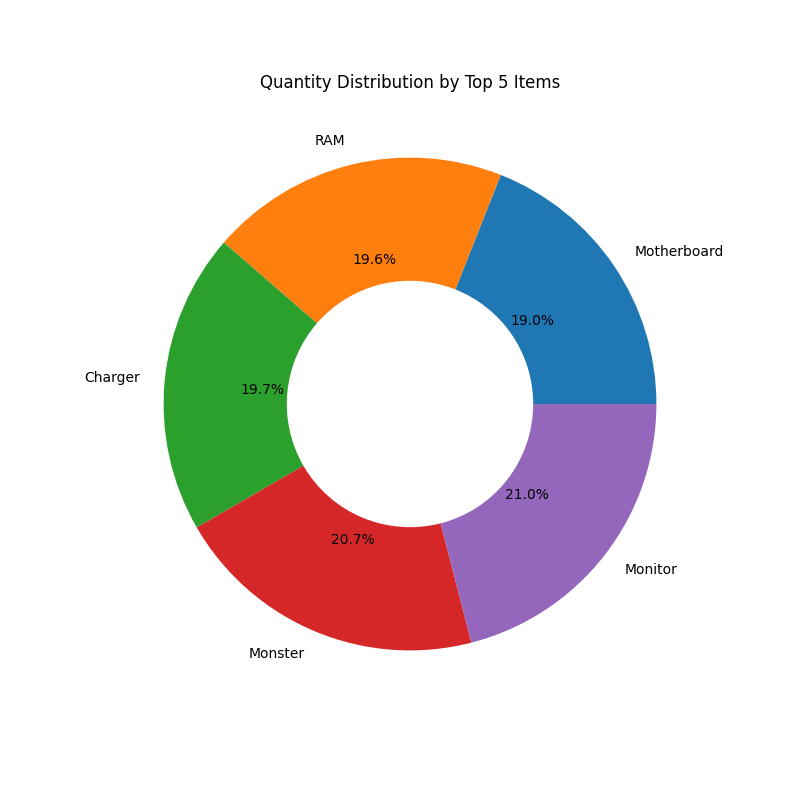
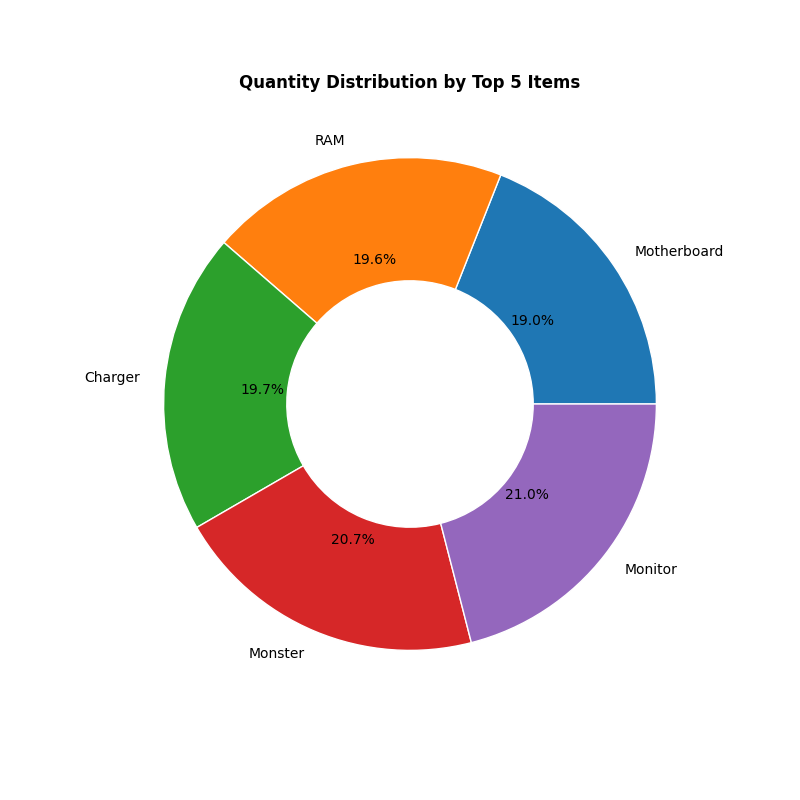
added formatting to visuals

diff --git a/sales_report/json_report.py b/sales_report/json_report.py
@@ -1,6 +1,7 @@
 import csv 
 import json
 import matplotlib.pyplot as plt
+import matplotlib.ticker as mticker
 import os
 import numpy as np
 import pandas as pd
@@ -140,6 +141,23 @@ def create_visualizations(data, output_folder):
     if not os.path.exists(data_dir):
         os.makedirs(data_dir)
 
+    # create a color pallete
+    
+    colors = {
+        'main_blue': '#1f77b4',      # Primary color for main bars/lines
+        'accent_1': '#ff7f0e',       # Orange for highlighting or secondary elements
+        'accent_2': '#2ca02c',       # Green for tertiary elements
+        'accent_3': '#d62728',       # Red for important highlights
+        'accent_4': '#9467bd',       # Purple
+        'accent_5': '#8c564b',       # Brown
+        'light_blue': '#aec7e8',     # Light blue for backgrounds or less important elements
+        'grid': '#cccccc'            # Light gray for grids
+    }
+
+    # For multi-color charts (like pie charts), create a color list
+    color_list = [colors['main_blue'], colors['accent_1'], colors['accent_2'], 
+                  colors['accent_3'], colors['accent_4'], colors['accent_5']]   
+
     # aggregate sales by regions 
     regions = list(data['sales_by_region'].keys())
     sales = list(data['sales_by_region'].values())
@@ -150,79 +168,91 @@ def create_visualizations(data, output_folder):
     sorted_sales = [sales[i] for i in sort_indices]
 
     # bar chart
-    plt.figure(figsize=(10,6))
-    plt.bar(sorted_regions, sorted_sales)
-    plt.title('Sales by Region')
+
+# bar chart - sales by region
+    plt.figure(figsize=(10, 6))
+    plt.bar(sorted_regions, sorted_sales, color=colors['main_blue'])
+    plt.title('Sales by Region', fontweight='bold')
     plt.xlabel('Region')
     plt.ylabel('Sales Amount')
+    formatter = mticker.StrMethodFormatter('${x:,.0f}')
+    plt.gca().yaxis.set_major_formatter(formatter)
+    plt.grid(axis='y', linestyle='--', alpha=0.3, color=colors['grid'])
+    plt.tight_layout()
     plt.savefig(f"{output_folder}/sales_by_region_bar.png")
+
 
     # quantity by items sort
     items = list(data['quantity_by_item'].keys())
     quantity = list(data['quantity_by_item'].values())
-
     sort_indices = np.argsort(quantity)
-    
+        
     sorted_items = [items[i] for i in sort_indices]
     sorted_quantity = [quantity[i] for i in sort_indices]
 
-    # bar chart
-    plt.figure(figsize=(10,8))
-    plt.barh(sorted_items, sorted_quantity)
-    plt.title('Quantity by Item')
+    plt.figure(figsize=(10, 8))
+    plt.barh(sorted_items, sorted_quantity, color=colors['main_blue'])
+    plt.title('Quantity by Item', fontweight='bold')
     plt.ylabel('Item')
     plt.xlabel('Quantity')
+    plt.grid(axis='x', linestyle='--', alpha=0.3, color=colors['grid'])
     plt.tight_layout()
     plt.savefig(f"{output_folder}/quantity_by_item_bar.png")
 
     # customer experience bar
+
     scores = list(data['customer_experience_counts'].keys())
     counts = list(data['customer_experience_counts'].values())
 
-    plt.figure(figsize=(8,6))
-    plt.bar(scores, counts, color = 'skyblue')
-    plt.title('Transaaction Count by Customer Experience Score')
+    plt.figure(figsize=(8, 6))
+    bars = plt.bar(scores, counts, color=colors['light_blue'])
+
+# Highlight the highest value bar
+    max_index = counts.index(max(counts))
+    bars[max_index].set_color(colors['accent_1'])
+
+    plt.title('Transaction Count by Customer Experience Score', fontweight='bold')
     plt.xlabel('Customer Experience Score')
     plt.ylabel('Number of Transactions')
     plt.xticks(scores)
-
     for i, count in enumerate(counts):
         plt.text(scores[i], count + 0.1, str(count), ha='center')
-
-    plt.grid(axis='y', linestyle='--', alpha=0.7)
+    plt.grid(axis='y', linestyle='--', alpha=0.3, color=colors['grid'])
     plt.savefig(f"{output_folder}/customer_experience_bar.png")
 
 
+
     # donut chart
+
     top_n = 5
-    plt.figure(figsize=(8,8))
+    plt.figure(figsize=(8, 8))
     plt.pie(sorted_quantity[-top_n:],
             labels=sorted_items[-top_n:], 
             autopct='%.1f%%',
-            wedgeprops=dict(width=0.5))
-    plt.title('Quantity Distribution by Top 5 Items')
+            colors=color_list,
+            wedgeprops=dict(width=0.5, edgecolor='white'))
+    plt.title('Quantity Distribution by Top 5 Items', fontweight='bold')
     plt.savefig(f"{output_folder}/quantity_by_item_pie.png")
 
-    print(f"Visualizations saved to {output_folder}")
 
     # line chart
     date = list(data['sales_by_date'].keys())
     sales = list(data['sales_by_date'].values())
-    
-    plt.figure(figsize=(10,6))
-    plt.plot(date, sales, marker = 'o', linewidth = 2)
 
+    plt.figure(figsize=(10, 6))
+    plt.plot(date, sales, marker='o', linewidth=2, color=colors['main_blue'], 
+             markerfacecolor=colors['accent_1'], markeredgecolor=colors['accent_1'])
     plt.xlabel('Date')
     plt.ylabel('Sales')
-    plt.title('Sales by Date')
-
+    plt.title('Sales by Date', fontweight='bold')
     plt.xticks(rotation=45)
-
-    plt.grid(True, linestyle='--', alpha=0.7)
-
+    plt.grid(True, linestyle='--', alpha=0.3, color=colors['grid'])
     plt.tight_layout()
-
+    formatter = mticker.StrMethodFormatter('${x:,.0f}')
+    plt.gca().yaxis.set_major_formatter(formatter)
     plt.savefig(f"{output_folder}/sales_by_date_line.png")
+
+    print(f"Visualizations saved to {output_folder}")
 
 def main():
     input_file = "sales_data.csv"
